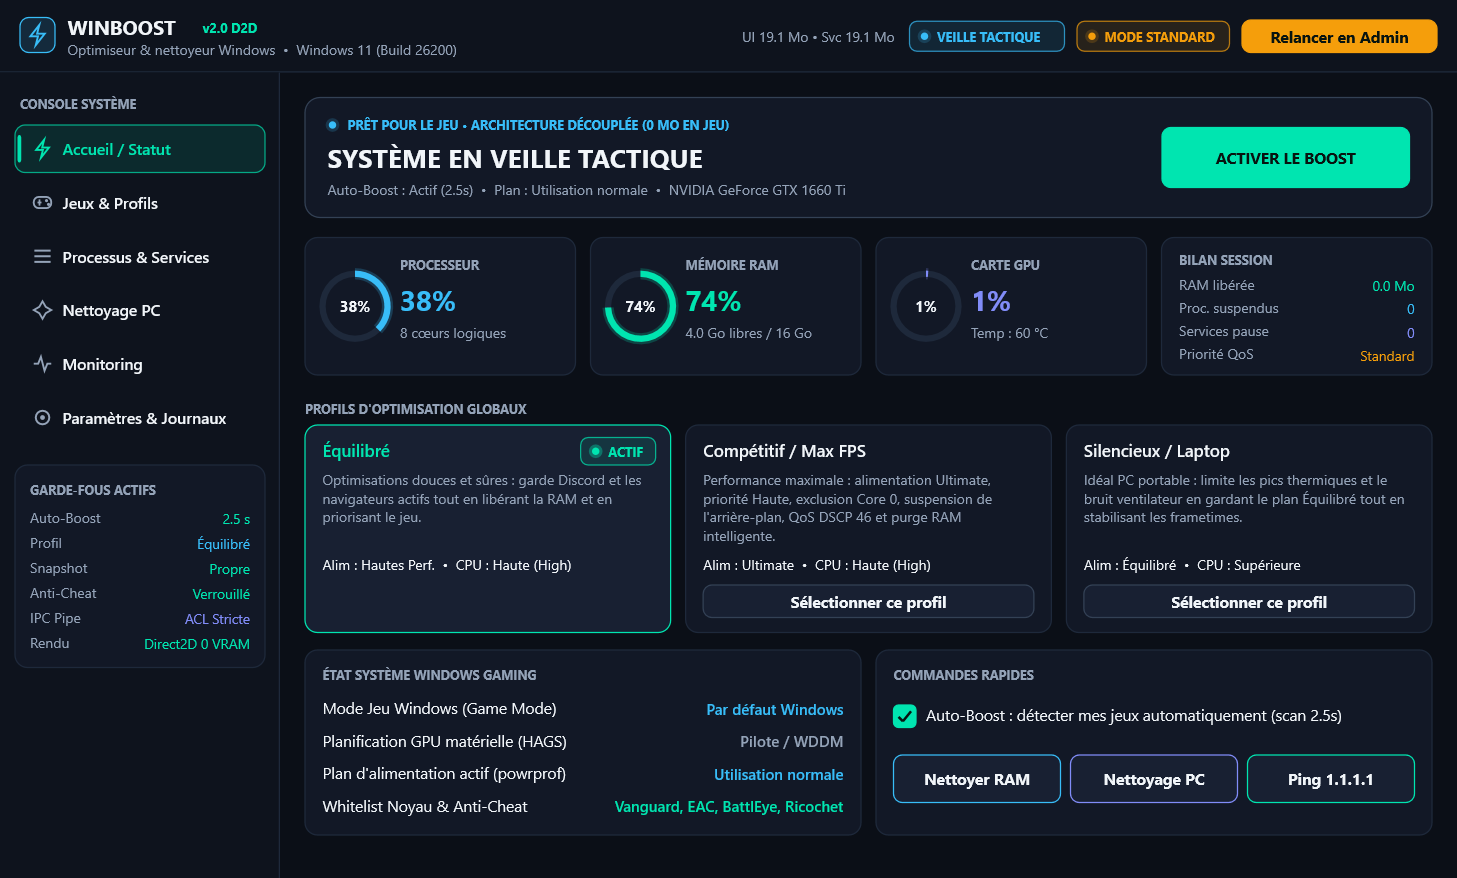
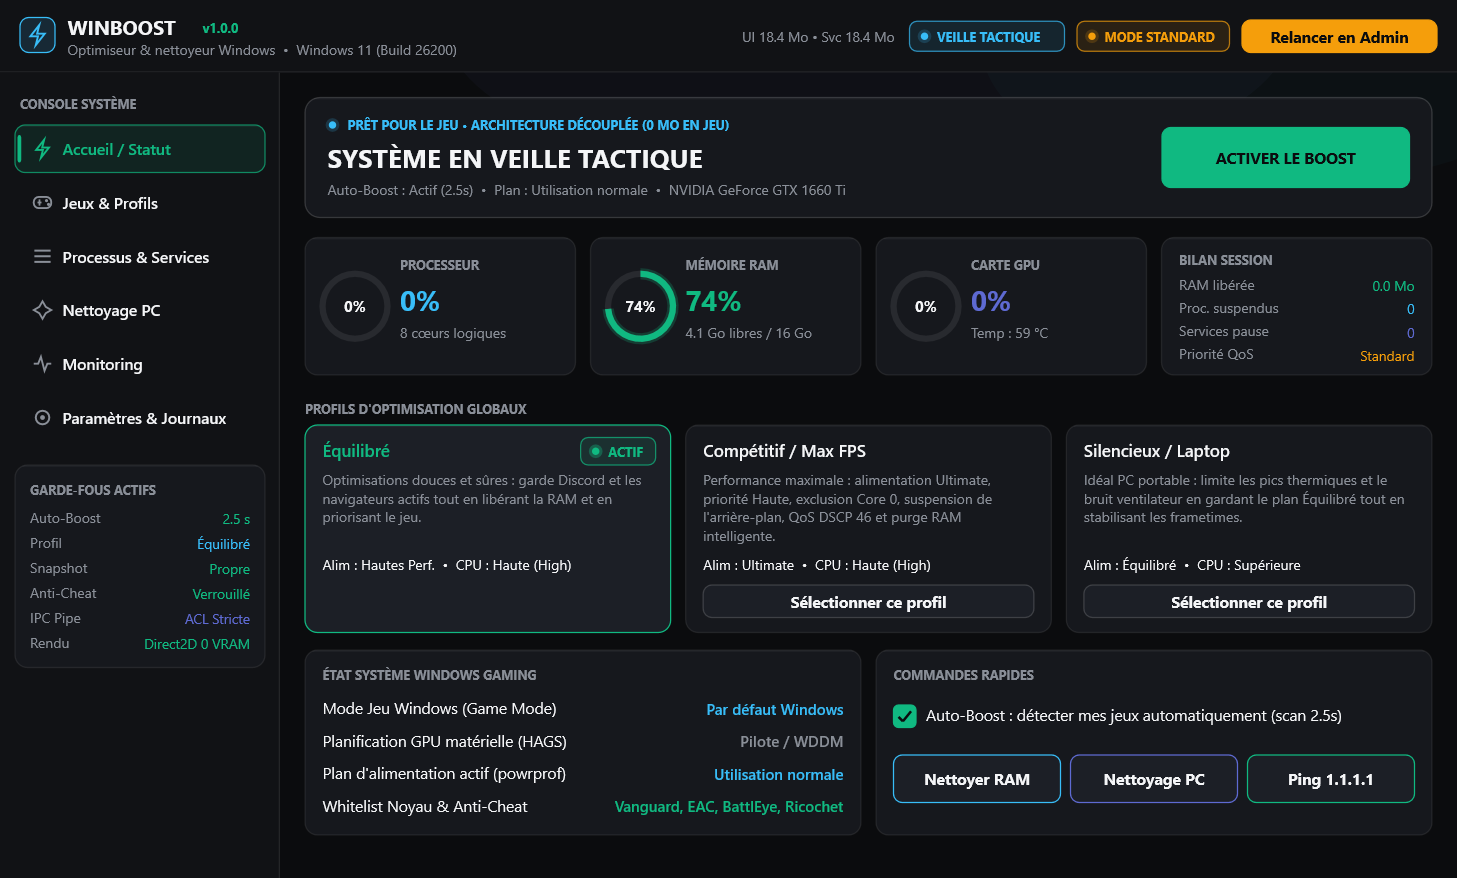
feat: add new design

diff --git a/src/ui.rs b/src/ui.rs
@@ -67,7 +67,7 @@ use crate::whitelist::immutable_whitelist_summary;
 use crate::win32_ops::{self, SingleInstanceGuard, WinServiceState, MAIN_WINDOW_TITLE};
 
 // ═══════════════════════════════════════════════════════════════════════════
-// PALETTE OLED / CYBER-TACTIQUE
+// PALETTE CRAFT.RO DESIGN SYSTEM (Linear / Raycast / Setapp)
 // ═══════════════════════════════════════════════════════════════════════════
 const fn rgba(r: u8, g: u8, b: u8, a: f32) -> D2D1_COLOR_F {
     D2D1_COLOR_F {
@@ -78,21 +78,22 @@ const fn rgba(r: u8, g: u8, b: u8, a: f32) -> D2D1_COLOR_F {
     }
 }
 
-const BG_OLED: D2D1_COLOR_F = rgba(11, 15, 23, 1.0); // #0B0F17
-const BG_SIDEBAR: D2D1_COLOR_F = rgba(14, 19, 29, 1.0); // #0E131D
-const BG_CARD: D2D1_COLOR_F = rgba(18, 24, 38, 1.0); // #121826
-const BG_CARD_ELEVATED: D2D1_COLOR_F = rgba(24, 32, 50, 1.0); // #182032
-const BG_CARD_ACTIVE_BOOST: D2D1_COLOR_F = rgba(12, 30, 32, 1.0);
-const BORDER_SUBTLE: D2D1_COLOR_F = rgba(30, 41, 59, 1.0); // #1E293B
-const BORDER_BRIGHT: D2D1_COLOR_F = rgba(51, 65, 85, 1.0); // #334155
-const TEXT_PRIMARY: D2D1_COLOR_F = rgba(241, 245, 249, 1.0); // #F1F5F9
-const TEXT_SECONDARY: D2D1_COLOR_F = rgba(148, 163, 184, 1.0); // #94A3B8
-const TEXT_DARK: D2D1_COLOR_F = rgba(8, 20, 16, 1.0);
-const ACCENT_EMERALD: D2D1_COLOR_F = rgba(0, 229, 176, 1.0); // #00E5B0
-const ACCENT_CYAN: D2D1_COLOR_F = rgba(56, 189, 248, 1.0); // #38BDF8
-const ACCENT_INDIGO: D2D1_COLOR_F = rgba(129, 140, 248, 1.0); // #818CF8
-const ACCENT_AMBER: D2D1_COLOR_F = rgba(245, 158, 11, 1.0); // #F59E0B
-const ACCENT_CRIMSON: D2D1_COLOR_F = rgba(244, 63, 94, 1.0); // #F43F5E
+const BG_OLED: D2D1_COLOR_F = rgba(11, 12, 14, 1.0); // #0B0C0E (--background)
+const BG_SIDEBAR: D2D1_COLOR_F = rgba(17, 18, 21, 1.0); // #111215 (--sidebar)
+const BG_CARD: D2D1_COLOR_F = rgba(22, 24, 29, 1.0); // #16181D (--card)
+const BG_CARD_ELEVATED: D2D1_COLOR_F = rgba(28, 31, 38, 1.0); // #1C1F26 (Surface Hover)
+const BG_CARD_ACTIVE_BOOST: D2D1_COLOR_F = rgba(16, 28, 26, 1.0);
+const BORDER_SUBTLE: D2D1_COLOR_F = rgba(255, 255, 255, 0.08); // Hairline 1px Craft.ro
+const BORDER_BRIGHT: D2D1_COLOR_F = rgba(255, 255, 255, 0.16); // Hover / Focus Craft.ro
+const BORDER_ZENITHAL: D2D1_COLOR_F = rgba(255, 255, 255, 0.04); // Reflet supérieur interne
+const TEXT_PRIMARY: D2D1_COLOR_F = rgba(244, 245, 247, 1.0); // #F4F5F7 (--foreground)
+const TEXT_SECONDARY: D2D1_COLOR_F = rgba(138, 143, 152, 1.0); // #8A8F98 (--muted-foreground)
+const TEXT_DARK: D2D1_COLOR_F = rgba(11, 12, 14, 1.0);
+const ACCENT_EMERALD: D2D1_COLOR_F = rgba(16, 185, 129, 1.0); // #10B981 (Succès)
+const ACCENT_CYAN: D2D1_COLOR_F = rgba(56, 189, 248, 1.0); // #38BDF8 (Info)
+const ACCENT_INDIGO: D2D1_COLOR_F = rgba(94, 106, 210, 1.0); // #5E6AD2 (Primaire Craft.ro)
+const ACCENT_AMBER: D2D1_COLOR_F = rgba(245, 158, 11, 1.0); // #F59E0B (Avertissement)
+const ACCENT_CRIMSON: D2D1_COLOR_F = rgba(229, 72, 77, 1.0); // #E5484D (Destructif)
 
 const TIMER_ANIM_ID: usize = 1;
 const TIMER_POLL_ID: usize = 2;
@@ -1295,6 +1296,32 @@ impl NativeUiState {
 
         let header_h = 58.0;
         let sidebar_w = 224.0;
+
+        // Halo atmosphérique discret Craft.ro en haut du canvas
+        if let Some(halo_indigo) = solid_brush(rt, with_alpha(ACCENT_INDIGO, 0.045)) {
+            unsafe {
+                rt.FillEllipse(
+                    &D2D1_ELLIPSE {
+                        point: pt(sidebar_w + (w - sidebar_w) * 0.5, header_h - 40.0),
+                        radiusX: 340.0,
+                        radiusY: 130.0,
+                    },
+                    &halo_indigo,
+                );
+            }
+        }
+        if let Some(halo_sky) = solid_brush(rt, with_alpha(ACCENT_CYAN, 0.025)) {
+            unsafe {
+                rt.FillEllipse(
+                    &D2D1_ELLIPSE {
+                        point: pt(w * 0.88, header_h - 20.0),
+                        radiusX: 240.0,
+                        radiusY: 110.0,
+                    },
+                    &halo_sky,
+                );
+            }
+        }
 
         // 1. Barre supérieure
         self.draw_top_header(rt, w, header_h);
@@ -3305,6 +3332,17 @@ fn fill_rounded_card(
         unsafe {
             rt.FillRoundedRectangle(&rr, &fb);
         }
+    }
+    if radius >= 8.0 && (r.right - r.left) > radius * 2.0 {
+        draw_line(
+            rt,
+            r.left + radius * 0.6,
+            r.top + 1.0,
+            r.right - radius * 0.6,
+            r.top + 1.0,
+            BORDER_ZENITHAL,
+            1.0,
+        );
     }
     if let Some(sb) = solid_brush(rt, border) {
         unsafe {
